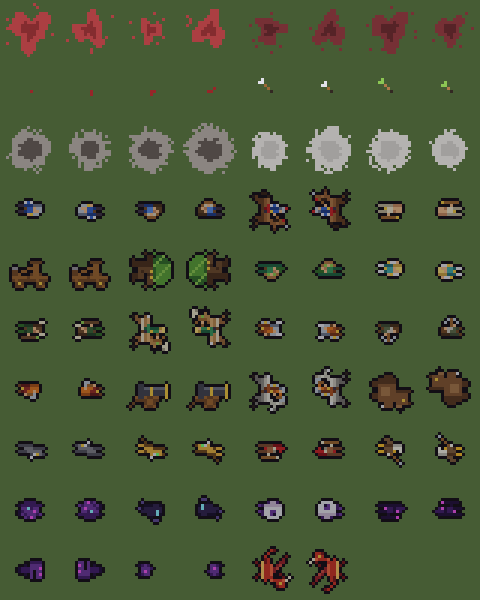
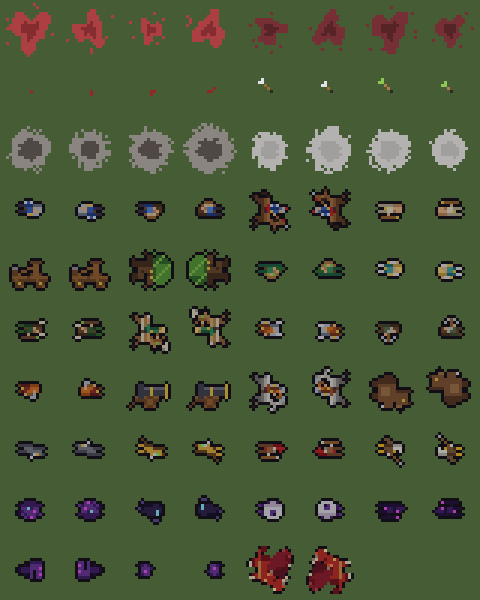
Vẽ lại Rồng 32x32: quân khổng lồ to gấp đôi
- Cờ mới UFlag.Giant: sprite 32x32, mỗi khung chiếm 2x2 ô atlas (8 hàng / loại quân).
  PackUnitsJob ghi ô góc trên trái + cờ 8; Units.shader thấy cờ 8 thì quad và vùng atlas to gấp đôi.
  Biểu tượng quân và xác chết (thu nhỏ 1/2) xử lý quân khổng lồ.
- Rồng vẽ lại ở 32x32 bằng đa giác / elip: cánh màng có xương + vân (lên / ngang / xuống),
  cánh xa phía sau, sừng dài, gai lưng, bụng vàng có vạch, đuôi mũi giáo đung đưa,
  ngửa đầu lấy hơi rồi há miệng phun lửa.
- Xuất lại atlas trong Docs/Screenshots.

Changed region(s): [[0.5, 0.9, 0.75, 0.99]]

diff --git a/Assets/_Project/Scripts/Runtime/Rendering/PixelArt.cs b/Assets/_Project/Scripts/Runtime/Rendering/PixelArt.cs
@@ -12,7 +12,9 @@ namespace HordeLab
     public static partial class PixelArt
     {
         // Ô atlas 16x16: lính bộ 10x10 (12x12 tính cả viền) vẽ ở giữa ô, quân to dùng trọn 16x16. 4 khung hình x (26 loại x 2 trạng thái)
-        public const int UnitCell = 16, InfantryPx = 10, UnitCols = 4, UnitRows = UnitType.Count * 2;
+        // Quân khổng lồ (UFlag.Giant, hiện chỉ có Rồng, phải là loại CUỐI bảng): 32x32, 8 hàng atlas thay vì 2
+        public const int GiantPx = 32;
+        public const int UnitCell = 16, InfantryPx = 10, UnitCols = 4, UnitRows = UnitType.Count * 2 + 6;
         public const int StampPx = 20, StampCols = 8, StampRows = 3 + (UnitType.Count * 2 + StampCols - 1) / StampCols;
         public const int ProjW = 12, ProjH = 3;   // mỗi loại đạn 1 hàng 12x3 pixel
 
@@ -79,14 +81,15 @@ namespace HordeLab
         /// <summary>Bản xem cho người: mỗi hàng 1 loại quân, 4 khung đi + 4 khung đánh (atlas thật thì 2 hàng / loại).</summary>
         static Canvas UnitSheet()
         {
-            var sheet = new Canvas(UnitCell * 8, UnitCell * UnitType.Count);
+            var sheet = new Canvas(GiantPx * 8, UnitCell * UnitType.Count + GiantPx - UnitCell);
             for (int type = 0; type < UnitType.Count; type++)
                 for (int state = 0; state < 2; state++)
                     for (int f = 0; f < 4; f++)
                     {
                         var sprite = DrawUnit(type, state, f);
-                        int pad = (UnitCell - sprite.W) / 2;
-                        sheet.Blit(sprite, (state * 4 + f) * UnitCell + pad, type * UnitCell + pad);
+                        int cell = sprite.W > UnitCell ? GiantPx : UnitCell;          // quân khổng lồ: khung rộng 32
+                        int pad = (cell - sprite.W) / 2;
+                        sheet.Blit(sprite, (state * 4 + f) * cell + pad, type * UnitCell + pad);
                     }
             return sheet;
         }
@@ -117,6 +120,12 @@ namespace HordeLab
                     for (int f = 0; f < 4; f++)
                     {
                         var sprite = DrawUnit(type, state, f);
+                        if (sprite.W > UnitCell)
+                        {
+                            // khổng lồ 32x32: khung f nằm ở cột (f & 1) * 2, hàng type*2 + state*4 + (f >> 1)*2 (khớp PackUnitsJob)
+                            atlas.Blit(sprite, (f & 1) * GiantPx, (type * 2 + state * 4 + (f >> 1) * 2) * UnitCell);
+                            continue;
+                        }
                         int pad = (UnitCell - sprite.W) / 2;   // lính bộ 10x10 nằm giữa ô 16x16
                         atlas.Blit(sprite, f * UnitCell + pad, (type * 2 + state) * UnitCell + pad);
                     }
@@ -537,58 +546,135 @@ namespace HordeLab
             return s;
         }
 
-        /// <summary>Rồng đỏ 16x16 bay lơ lửng, đập cánh 4 khung. Đánh: khung 2-3 há miệng phun lửa. Chừa mép cho viền.</summary>
+        // ------------------------------------------------------------------
+        // Rồng 32x32 (quân khổng lồ). Hình học nhỏ: đa giác, elip, đường thẳng dày.
+        // ------------------------------------------------------------------
+        static bool InPoly(float x, float y, Vector2[] p)
+        {
+            bool inside = false;
+            for (int i = 0, j = p.Length - 1; i < p.Length; j = i++)
+                if ((p[i].y > y) != (p[j].y > y) && x < (p[j].x - p[i].x) * (y - p[i].y) / (p[j].y - p[i].y) + p[i].x)
+                    inside = !inside;
+            return inside;
+        }
+
+        /// <summary>Tô đa giác (toạ độ pixel, y xuống), dịch xuống <paramref name="dy"/>. <paramref name="shade"/> chọn màu theo (x, y).</summary>
+        static void FillPoly(Canvas s, Vector2[] pts, int dy, System.Func<int, int, Color32> shade)
+        {
+            float minX = float.MaxValue, minY = float.MaxValue, maxX = float.MinValue, maxY = float.MinValue;
+            foreach (var q in pts) { minX = Mathf.Min(minX, q.x); maxX = Mathf.Max(maxX, q.x); minY = Mathf.Min(minY, q.y); maxY = Mathf.Max(maxY, q.y); }
+            for (int y = Mathf.FloorToInt(minY); y <= Mathf.CeilToInt(maxY); y++)
+                for (int x = Mathf.FloorToInt(minX); x <= Mathf.CeilToInt(maxX); x++)
+                    if (InPoly(x + 0.5f, y + 0.5f, pts)) s.Set(x, y + dy, shade(x, y));
+        }
+
+        static void Line(Canvas s, int x0, int y0, int x1, int y1, Color32 c)
+        {
+            int dx = Mathf.Abs(x1 - x0), sx = x0 < x1 ? 1 : -1, dy = -Mathf.Abs(y1 - y0), sy = y0 < y1 ? 1 : -1, err = dx + dy;
+            while (true)
+            {
+                s.Set(x0, y0, c);
+                if (x0 == x1 && y0 == y1) break;
+                int e2 = 2 * err;
+                if (e2 >= dy) { err += dy; x0 += sx; }
+                if (e2 <= dx) { err += dx; y0 += sy; }
+            }
+        }
+
+        static Vector2[] V(params float[] xy)
+        {
+            var v = new Vector2[xy.Length / 2];
+            for (int i = 0; i < v.Length; i++) v[i] = new Vector2(xy[i * 2], xy[i * 2 + 1]);
+            return v;
+        }
+
+        /// <summary>
+        /// Rồng đỏ 32x32 bay lơ lửng, quay mặt sang phải. Đi = đập cánh 4 khung (lên / ngang / xuống / ngang).
+        /// Đánh = khung 0-1 ngửa đầu lấy hơi, khung 2-3 há miệng phun lửa. Chừa 1 pixel mép cho viền.
+        /// </summary>
         static Canvas DrawDragon(int state, int f)
         {
-            var s = new Canvas(UnitCell, UnitCell);
-            Color32 red = Rgb(200, 56, 44), dark = Rgb(124, 30, 34), light = Rgb(238, 108, 72), belly = Rgb(246, 196, 104);
-            Color32 wing = Rgb(150, 40, 48), wingLight = Rgb(196, 78, 70), fire = Rgb(255, 206, 70), fire2 = Rgb(255, 128, 34);
+            var s = new Canvas(GiantPx, GiantPx);
+            Color32 red = Rgb(196, 50, 44), dark = Rgb(122, 26, 36), deep = Rgb(88, 18, 30), light = Rgb(236, 98, 66), shine = Rgb(255, 150, 104);
+            Color32 belly = Rgb(248, 200, 112), bellyDark = Rgb(214, 150, 78);
+            Color32 memb = Rgb(150, 36, 52), membLight = Rgb(196, 70, 74), membFar = Rgb(104, 24, 40);
+            Color32 horn = Rgb(236, 226, 196), hornDark = Rgb(170, 156, 128), eye = Rgb(255, 228, 80), fire = Rgb(255, 214, 80), fire2 = Rgb(255, 132, 36), fire3 = Rgb(255, 246, 190);
             bool attack = state == 1;
-            int bob = f == 1 || f == 2 ? 1 : 0;            // lơ lửng: nhún theo nhịp cánh
-
-            // cánh xa (sau thân), chỉ thấy chóp
-            if (f == 0) { s.Set(9, 4 + bob, dark); s.Set(10, 3 + bob, dark); }
-            else if (f != 2) { s.Set(9, 6 + bob, dark); s.Set(10, 5 + bob, dark); }
-
-            // đuôi
-            s.Set(1, 6 + bob, dark); s.Set(1, 7 + bob, red); s.Set(2, 8 + bob, red); s.Set(3, 9 + bob, red); s.Set(4, 9 + bob, red);
-            // thân
-            for (int x = 6; x <= 9; x++) s.Set(x, 7 + bob, light);
-            for (int x = 4; x <= 10; x++) s.Set(x, 8 + bob, red);
-            for (int x = 4; x <= 11; x++) s.Set(x, 9 + bob, x <= 5 ? dark : red);
-            for (int x = 5; x <= 10; x++) s.Set(x, 10 + bob, belly);
-            // chân
-            s.Set(6, 11 + bob, dark); s.Set(9, 11 + bob, dark); s.Set(5, 12 + bob, dark); s.Set(10, 12 + bob, dark);
-            // cổ + đầu
-            s.Set(10, 7 + bob, red); s.Set(11, 6 + bob, red); s.Set(11, 7 + bob, light); s.Set(12, 5 + bob, red);
-            Box(s, 11, 3 + bob, 13, 5 + bob, red);
-            s.Set(11, 3 + bob, light); s.Set(12, 4 + bob, Gold);          // mắt
-            s.Set(11, 2 + bob, Bone); s.Set(10, 1 + bob, Bone);           // sừng
+            int wingPose = attack ? (f < 2 ? 0 : 2) : f;                     // đánh: giơ cánh lấy đà rồi đập xuống lúc phun
+            int b = wingPose == 2 ? -1 : wingPose == 0 ? 1 : 0;              // cánh đập xuống thì thân bốc lên
+            int hx = attack && f < 2 ? -1 : 0, hy = attack && f < 2 ? -1 : 0; // ngửa đầu lấy hơi
             bool open = attack && f >= 2;
+
+            // ---- cánh xa (sau thân, tối) ----
+            Vector2[] farWing = wingPose == 0 ? V(17, 14, 15, 3, 21, 6, 20, 13)
+                              : wingPose == 2 ? V(17, 15, 21, 22, 18, 24, 16, 18)
+                              : V(17, 14, 22, 9, 24, 11, 19, 16);
+            FillPoly(s, farWing, b, (x, y) => membFar);
+
+            // ---- đuôi: cong xuống rồi hất lên, chóp hình mũi giáo ----
+            int tw = wingPose == 1 ? 1 : wingPose == 3 ? -1 : 0;               // đuôi đung đưa
+            FillPoly(s, V(10, 17, 10, 22, 6, 23, 3, 22 + tw, 2, 20 + tw, 5, 21, 8, 19), b, (x, y) => y >= 22 ? dark : red);
+            FillPoly(s, V(1, 17 + tw, 4, 19 + tw, 2, 22 + tw, 1, 20 + tw), b, (x, y) => dark);   // chóp đuôi
+
+            // ---- chân sau + chân trước (co dưới bụng khi bay) ----
+            FillPoly(s, V(10, 21, 14, 21, 13, 26, 11, 27, 9, 25), b, (x, y) => y > 24 ? dark : red);
+            s.Set(10, 28 + b, horn); s.Set(12, 28 + b, horn); s.Set(11, 28 + b, hornDark);                      // vuốt sau
+            FillPoly(s, V(19, 21, 22, 21, 22, 24, 20, 26, 18, 24), b, (x, y) => y > 23 ? dark : red);
+            s.Set(20, 27 + b, horn); s.Set(21, 26 + b, horn);                                                   // vuốt trước
+
+            // ---- thân: elip, sáng ở lưng, bụng vàng có vạch ----
+            for (int y = 13; y <= 23; y++)
+                for (int x = 7; x <= 24; x++)
+                {
+                    float dx = (x + 0.5f - 15.5f) / 8.5f, dy = (y + 0.5f - 18f) / 5f;
+                    if (dx * dx + dy * dy > 1f) continue;
+                    Color32 c = y <= 14 ? light : y >= 21 ? ((x & 1) == 0 ? bellyDark : belly) : y >= 20 ? belly : red;
+                    if (y == 15 && x > 10 && x < 20) c = shine;
+                    if (x <= 9 && y < 21) c = dark;                                // hông sau tối
+                    s.Set(x, y + b, c);
+                }
+
+            // ---- gai lưng ----
+            foreach (int gx in new[] { 9, 12, 15, 18 }) { s.Set(gx, 12 + b, horn); s.Set(gx + 1, 13 + b, hornDark); }
+
+            // ---- cổ cong lên phải ----
+            FillPoly(s, V(19, 14, 22, 12, 24, 9 + hy, 27, 9 + hy, 26, 13 + hy, 24, 17, 22, 19), b, (x, y) => x >= 25 || y >= 16 ? belly : red);
+
+            // ---- đầu ----
+            int ox = hx, oy = hy + b;
+            FillPoly(s, V(23 + ox, 6, 28 + ox, 6, 30 + ox, 8, 30 + ox, 10, 27 + ox, 11, 23 + ox, 11, 22 + ox, 9), oy, (x, y) => y <= 6 ? light : red);   // sọ + mõm
+            s.Set(29 + ox, 8 + oy, dark);                                                           // lỗ mũi
+            s.Set(26 + ox, 8 + oy, eye); s.Set(25 + ox, 8 + oy, deep);                                // mắt
+            Line(s, 23 + ox, 6 + oy, 20 + ox, 3 + oy, horn); s.Set(21 + ox, 3 + oy, hornDark);       // sừng dài
+            Line(s, 25 + ox, 6 + oy, 23 + ox, 4 + oy, hornDark);                                    // sừng ngắn
+            s.Set(22 + ox, 10 + oy, dark); s.Set(22 + ox, 11 + oy, dark);                            // má
+
             if (open)
             {
-                s.Set(13, 5 + bob, default(Color32)); s.Set(12, 6 + bob, dark); s.Set(13, 6 + bob, dark);   // há miệng
-                s.Set(14, 4 + bob, fire); s.Set(14, 5 + bob, fire2); s.Set(14, 6 + bob, fire);
-                if (f == 3) { s.Set(14, 3 + bob, fire2); s.Set(14, 7 + bob, fire2); }
-            }
-            else s.Set(13, 5 + bob, dark);                                 // hàm
-
-            // cánh gần (trước thân): lên / ngang / xuống / ngang
-            if (f == 0)
-            {
-                s.Set(7, 6 + bob, wing); s.Set(8, 6 + bob, wing); s.Set(6, 5 + bob, wing); s.Set(7, 5 + bob, wingLight);
-                s.Set(5, 4 + bob, wing); s.Set(6, 4 + bob, wingLight); s.Set(4, 3 + bob, wing); s.Set(5, 3 + bob, wing); s.Set(3, 2 + bob, dark);
-            }
-            else if (f == 2)
-            {
-                s.Set(7, 8 + bob, wing); s.Set(6, 9 + bob, wing); s.Set(7, 9 + bob, wingLight); s.Set(5, 10 + bob, wing);
-                s.Set(6, 10 + bob, wing); s.Set(4, 11 + bob, dark);
+                // há miệng: hàm dưới hạ xuống, răng trắng, lửa phụt ra
+                for (int x = 25; x <= 30; x++) s.Set(x, 11 + oy, deep);
+                for (int x = 24; x <= 29; x++) s.Set(x, 12 + oy, x <= 25 ? red : dark);
+                s.Set(27, 10 + oy, fire3); s.Set(29, 10 + oy, fire3);                               // răng
+                s.Set(30, 11 + oy, fire); s.Set(30, 12 + oy, fire2);
+                if (f == 3) { s.Set(30, 10 + oy, fire2); s.Set(30, 13 + oy, fire); s.Set(29, 13 + oy, fire2); }
             }
             else
             {
-                for (int x = 3; x <= 8; x++) s.Set(x, 6 + bob, x == 3 ? dark : wing);
-                for (int x = 4; x <= 7; x++) s.Set(x, 7 + bob, wingLight);
+                for (int x = 23; x <= 29; x++) s.Set(x + ox, 11 + oy, x >= 27 ? dark : red);       // hàm khép
+                s.Set(28 + ox, 11 + oy, fire3);                                                          // nanh
             }
+
+            // ---- cánh gần (trước thân): xương cánh đỏ sẫm + màng có vân ----
+            Vector2[] wing; int[] bone;
+            switch (wingPose)
+            {
+                case 0: wing = V(16, 15, 12, 2, 8, 1, 2, 4, 5, 9, 9, 13, 13, 17); bone = new[] { 16, 15, 12, 2, 12, 2, 8, 1, 12, 2, 2, 4 }; break;      // lên
+                case 2: wing = V(16, 16, 12, 22, 9, 29, 6, 29, 5, 25, 8, 20, 12, 17); bone = new[] { 16, 16, 12, 22, 12, 22, 9, 29, 12, 22, 5, 25 }; break; // xuống
+                default: wing = V(16, 15, 9, 10, 1, 9, 2, 13, 6, 16, 11, 18); bone = new[] { 16, 15, 9, 10, 9, 10, 1, 9, 9, 10, 2, 13 }; break;            // ngang
+            }
+            FillPoly(s, wing, b, (x, y) => ((x + y) % 4 == 0) ? membLight : memb);
+            for (int i = 0; i + 3 < bone.Length; i += 4) Line(s, bone[i], bone[i + 1] + b, bone[i + 2], bone[i + 3] + b, dark);
+            s.Set(bone[2], bone[3] + b, horn);                                                       // móng ở khớp cánh
             return s;
         }
 
@@ -837,6 +923,7 @@ namespace HordeLab
             for (int t = 0; t < UnitType.Count; t++)                                       // từ hàng 3: xác (2 kiểu nằm / loại)
             {
                 var body = DrawUnit(t, 0, 0);
+                if (body.W > UnitCell) body = Half(body);                                  // xác quân khổng lồ: thu nhỏ cho vừa ô dấu in
                 Darken(body, 0.72f);
                 int pad = (S - body.W) / 2;
                 for (int v = 0; v < 2; v++)
@@ -848,6 +935,24 @@ namespace HordeLab
                 }
             }
             return a;
+        }
+
+        /// <summary>Thu nhỏ 1/2: mỗi ô 2x2 lấy 1 pixel (ưu tiên pixel có màu, không phải viền).</summary>
+        static Canvas Half(Canvas src)
+        {
+            var d = new Canvas(src.W / 2, src.H / 2);
+            for (int y = 0; y < d.H; y++)
+                for (int x = 0; x < d.W; x++)
+                {
+                    Color32 pick = default;
+                    for (int k = 0; k < 4 && (pick.a == 0 || pick.Equals(Outline)); k++)
+                    {
+                        var c = src.Get(x * 2 + (k & 1), y * 2 + (k >> 1));
+                        if (c.a > 0 && (pick.a == 0 || !c.Equals(Outline))) pick = c;
+                    }
+                    d.Set(x, y, pick);
+                }
+            return d;
         }
 
         static void Darken(Canvas c, float k)

diff --git a/Assets/_Project/Scripts/Runtime/UI/UiKit.cs b/Assets/_Project/Scripts/Runtime/UI/UiKit.cs
@@ -50,7 +50,10 @@ namespace HordeLab
                 Tiles[i] = Cell(tiles, i % PixelArt.TileCols, i / PixelArt.TileCols, PixelArt.TilePx, PixelArt.TilePx);
 
             UnitIcons = new Sprite[UnitType.Count];
-            for (int t = 0; t < UnitIcons.Length; t++) UnitIcons[t] = Cell(unitAtlas, 0, t * 2, PixelArt.UnitCell, PixelArt.UnitCell);   // khung đi đầu tiên
+            for (int t = 0; t < UnitIcons.Length; t++)                                                           // khung đi đầu tiên
+                UnitIcons[t] = (GameData.Units[t].stats.flags & UFlag.Giant) != 0
+                    ? Cell(unitAtlas, 0, t, PixelArt.GiantPx, PixelArt.GiantPx)        // hàng t*2 (ô 16) = hàng t (ô 32)
+                    : Cell(unitAtlas, 0, t * 2, PixelArt.UnitCell, PixelArt.UnitCell);
 
             Shapes = new Sprite[5];
             for (int s = 1; s < Shapes.Length; s++) Shapes[s] = Whole(ShapeTexture((Shape)s));

diff --git a/Assets/_Project/Scripts/Runtime/Simulation/SimJobs.cs b/Assets/_Project/Scripts/Runtime/Simulation/SimJobs.cs
@@ -910,9 +910,14 @@ namespace HordeLab
             if (u.state == 0) frame = (int)(u.animT * stats[u.type].animFps) & 3;
             else frame = u.animT < 0.4f ? math.min(3, (int)(u.animT * 10f)) : 0;
 
-            int row = u.type * 2 + u.state;
             int flags = u.faceLeft | (u.flash > 0.25f ? 2 : 0) | (u.slow > 0f ? 4 : 0);
-            gpu[i] = new float4(u.pos, row * 4 + frame, flags);
+            if ((stats[u.type].flags & UFlag.Giant) != 0)
+            {
+                // quân khổng lồ 32x32: mỗi khung chiếm 2x2 ô, 2 khung / 2 hàng atlas, mỗi trạng thái 4 hàng
+                int grow = u.type * 2 + u.state * 4 + (frame >> 1) * 2;
+                gpu[i] = new float4(u.pos, grow * 4 + (frame & 1) * 2, flags | 8);
+            }
+            else gpu[i] = new float4(u.pos, (u.type * 2 + u.state) * 4 + frame, flags);
         }
     }
 

diff --git a/Assets/_Project/Scripts/Runtime/Core/GameData.cs b/Assets/_Project/Scripts/Runtime/Core/GameData.cs
@@ -312,7 +312,7 @@ namespace HordeLab
 
             // ---------------- Trung lập ----------------
             // Rồng (lõi Dragon's Pact): bay qua hàng địch, phun lửa lan. Máu / sát thương còn nhân theo đợt (Game.SpawnDragon)
-            s = S(900, 24, 2.0f, 8f, 3.4f, Mode.Blast, UFlag.Big | UFlag.Ghost, 0, PKind.Fire, 8f); s.splash = 3.2f;
+            s = S(900, 24, 2.0f, 8f, 3.4f, Mode.Blast, UFlag.Big | UFlag.Giant | UFlag.Ghost, 0, PKind.Fire, 8f); s.splash = 3.2f;
             u[UnitType.Dragon] = U("", "Dragon", "Legendary ally (fire breath)", s, default, 0f, 99, 0f);
 
             // Đặc trưng phe được nhân sẵn vào bảng chỉ số

diff --git a/Assets/_Project/Scripts/Runtime/Core/Config.cs b/Assets/_Project/Scripts/Runtime/Core/Config.cs
@@ -88,6 +88,7 @@ namespace HordeLab
         public const int Big = 8;        // sprite 16x16
         public const int HealAura = 16;  // hồi máu đồng đội đứng gần
         public const int PowerAura = 32; // tăng sát thương đồng đội đứng gần
+        public const int Giant = 64;     // sprite 32x32, chiếm 2x2 ô atlas (chỉ loại quân CUỐI bảng mới được dùng: xem PixelArt.UnitRows)
     }
 
     /// <summary>Hình dạng viên đạn (hàng trong texture đạn).</summary>

diff --git a/README.md b/README.md
@@ -169,8 +169,10 @@ Build/                           ← bản build (.gitignore)
 - **Chỉnh số:** `Tuning` và các hàm `BuildUnits` / `BuildBuildings` trong `GameData.cs`.
 - **Thêm cơ chế cho quân:** thêm trường vào `UnitStats` (Config.cs) rồi dùng trong `ThinkMoveJob` / `ResolveJob` (SimJobs.cs).
 - **Thêm nhà buff:** thêm mã vào `B`, 1 dòng trong `BuildBuildings`, 1 `case` trong `City.Recompute`.
-- **Thay hình:** thay các hàm `Draw*` trong `PixelArt.cs`. Atlas lính: ô 16×16, 4 cột (khung hình) × 54 hàng
+- **Thay hình:** thay các hàm `Draw*` trong `PixelArt.cs`. Atlas lính: ô 16×16, 4 cột (khung hình) × 60 hàng
   (`loại * 2 + trạng thái`, 0 = đi, 1 = đánh), quay mặt sang phải; lính bộ vẽ 10×10 ở giữa ô.
+  Quân khổng lồ (`UFlag.Giant`, hiện chỉ có Rồng, phải là loại cuối bảng) vẽ 32×32, mỗi khung chiếm 2×2 ô, 8 hàng atlas;
+  shader nhận cờ 8 trong `_Units.w` để vẽ quad to gấp đôi.
   Không tự gọi `AddOutline`: `DrawUnit` tự thêm viền (lính bộ được chừa sẵn 1 pixel mỗi bên). Quân to 16×16 phải
   **chừa trống hàng / cột sát mép** cho viền, không thì chỗ đó bị hở viền.
 - **Thay tranh công trình:** mỗi công trình là 1 `case` trong `DrawTile` (PixelArtTiles.cs), vẽ trên ô 32×32.
